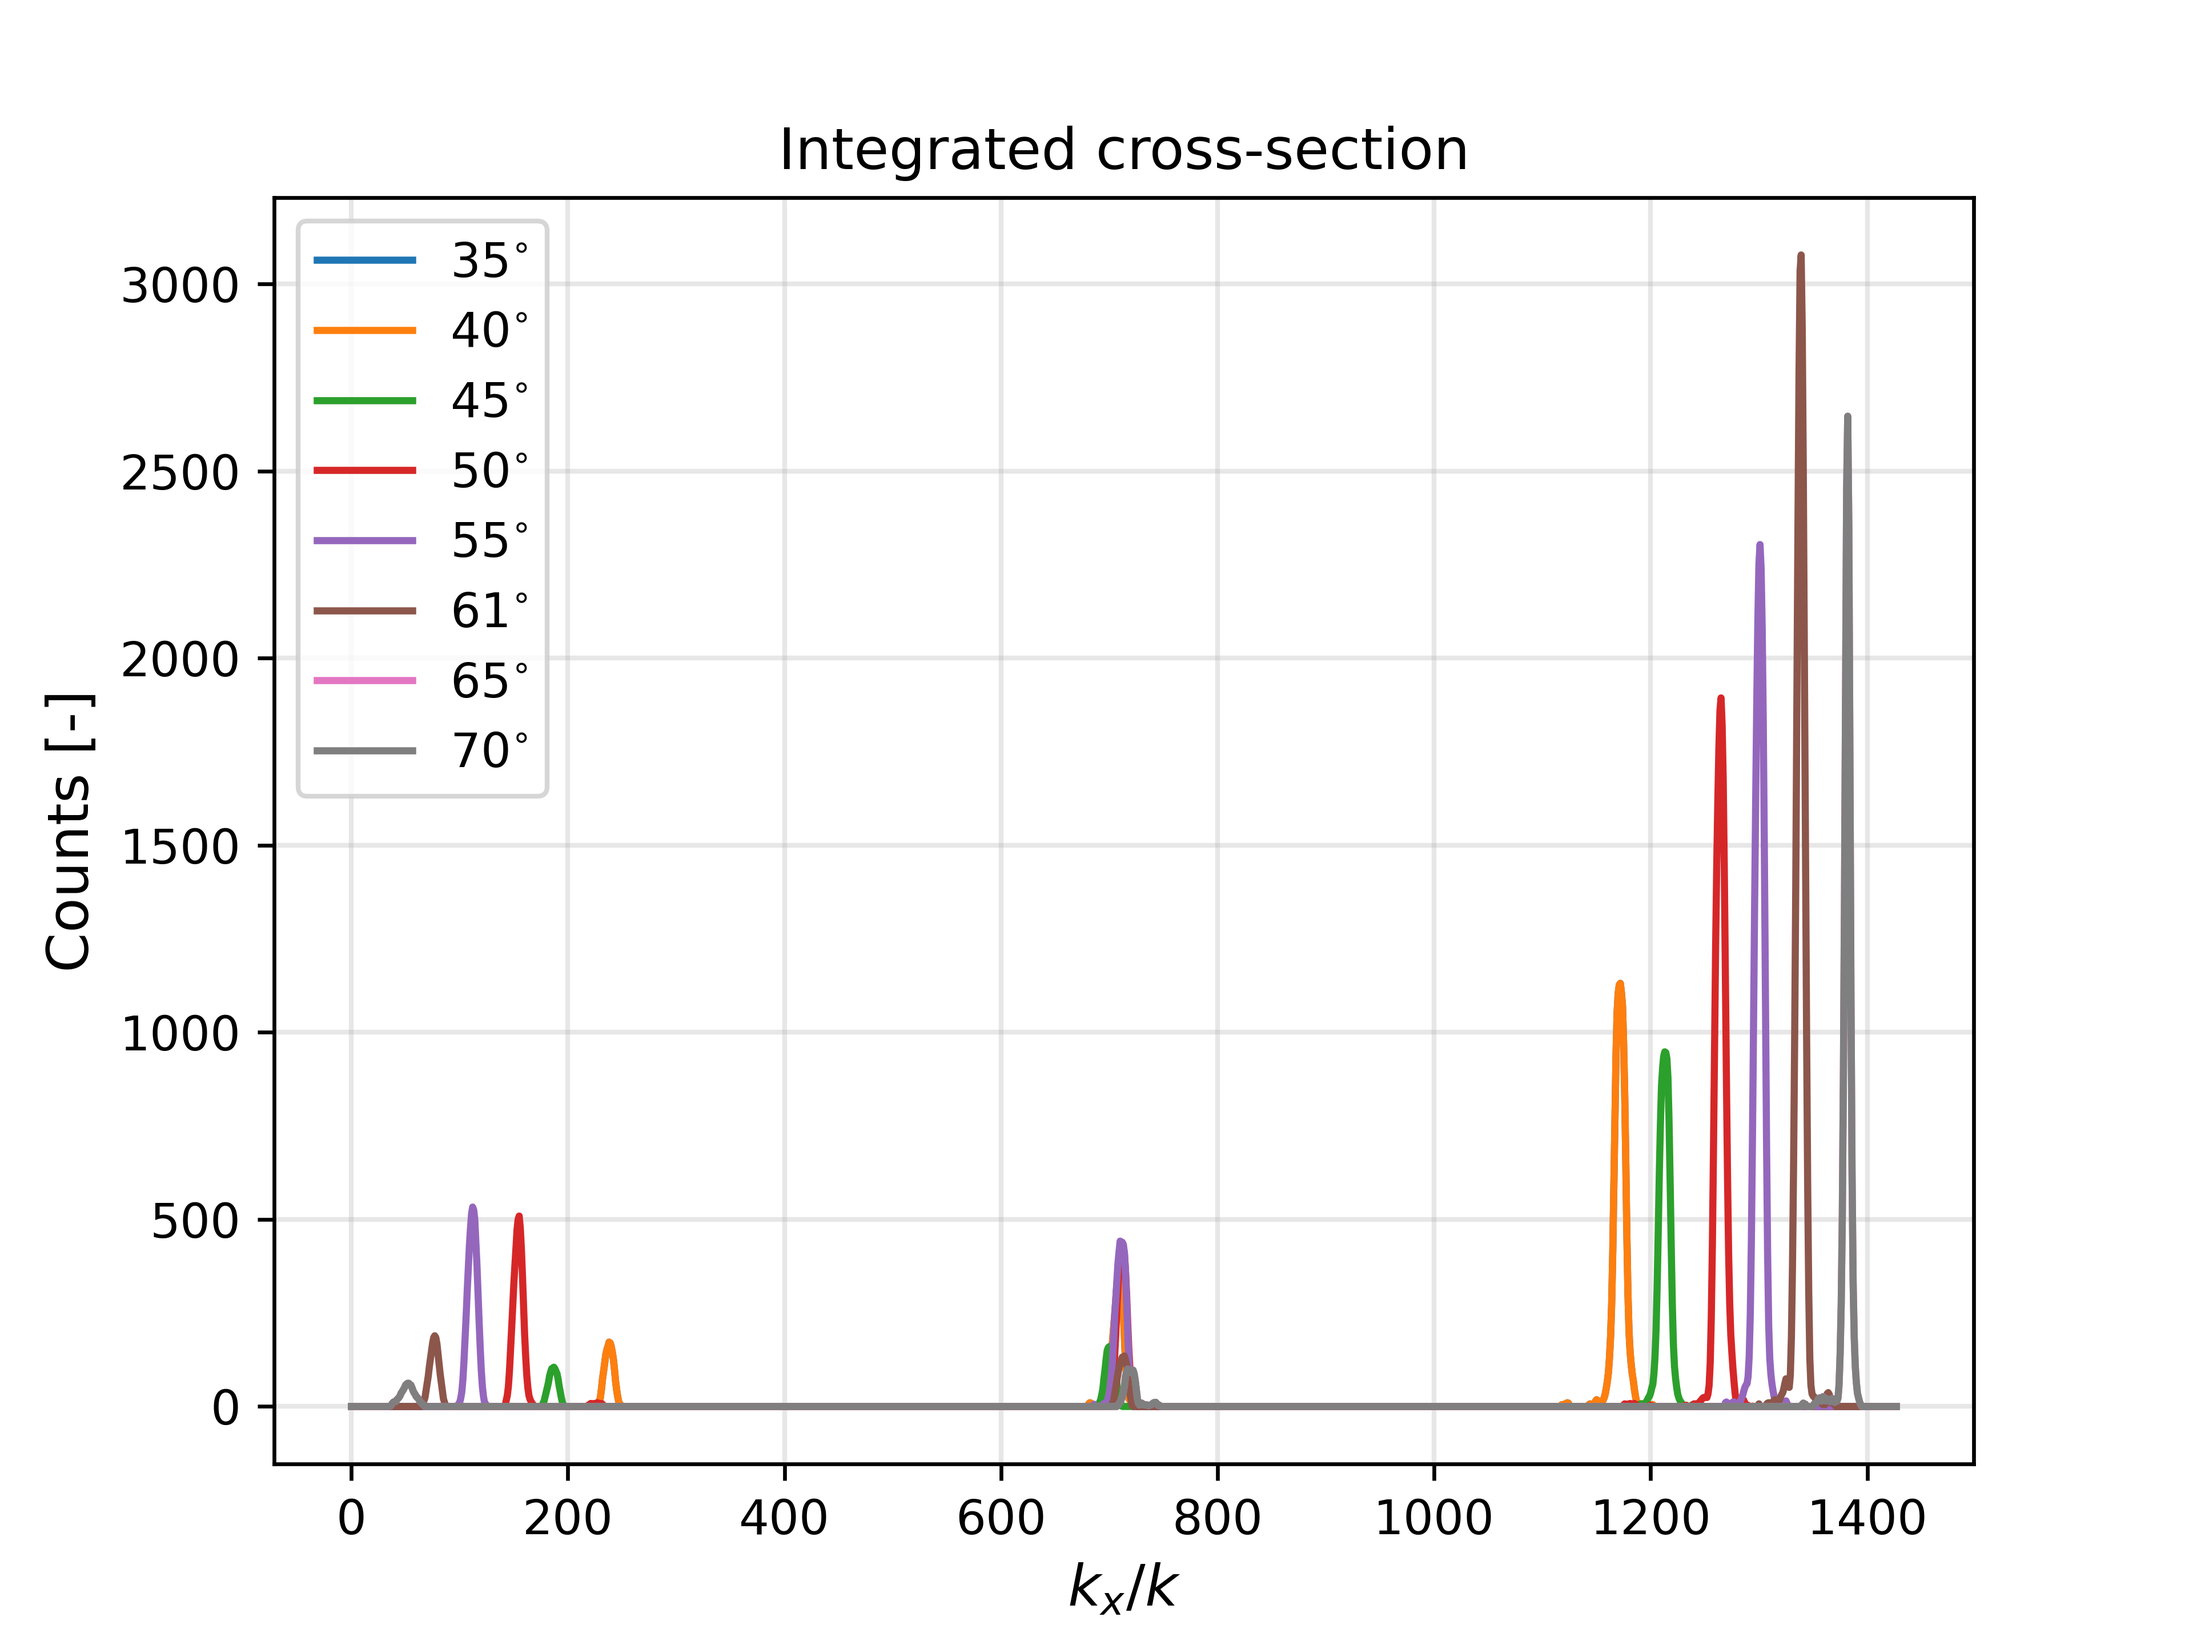
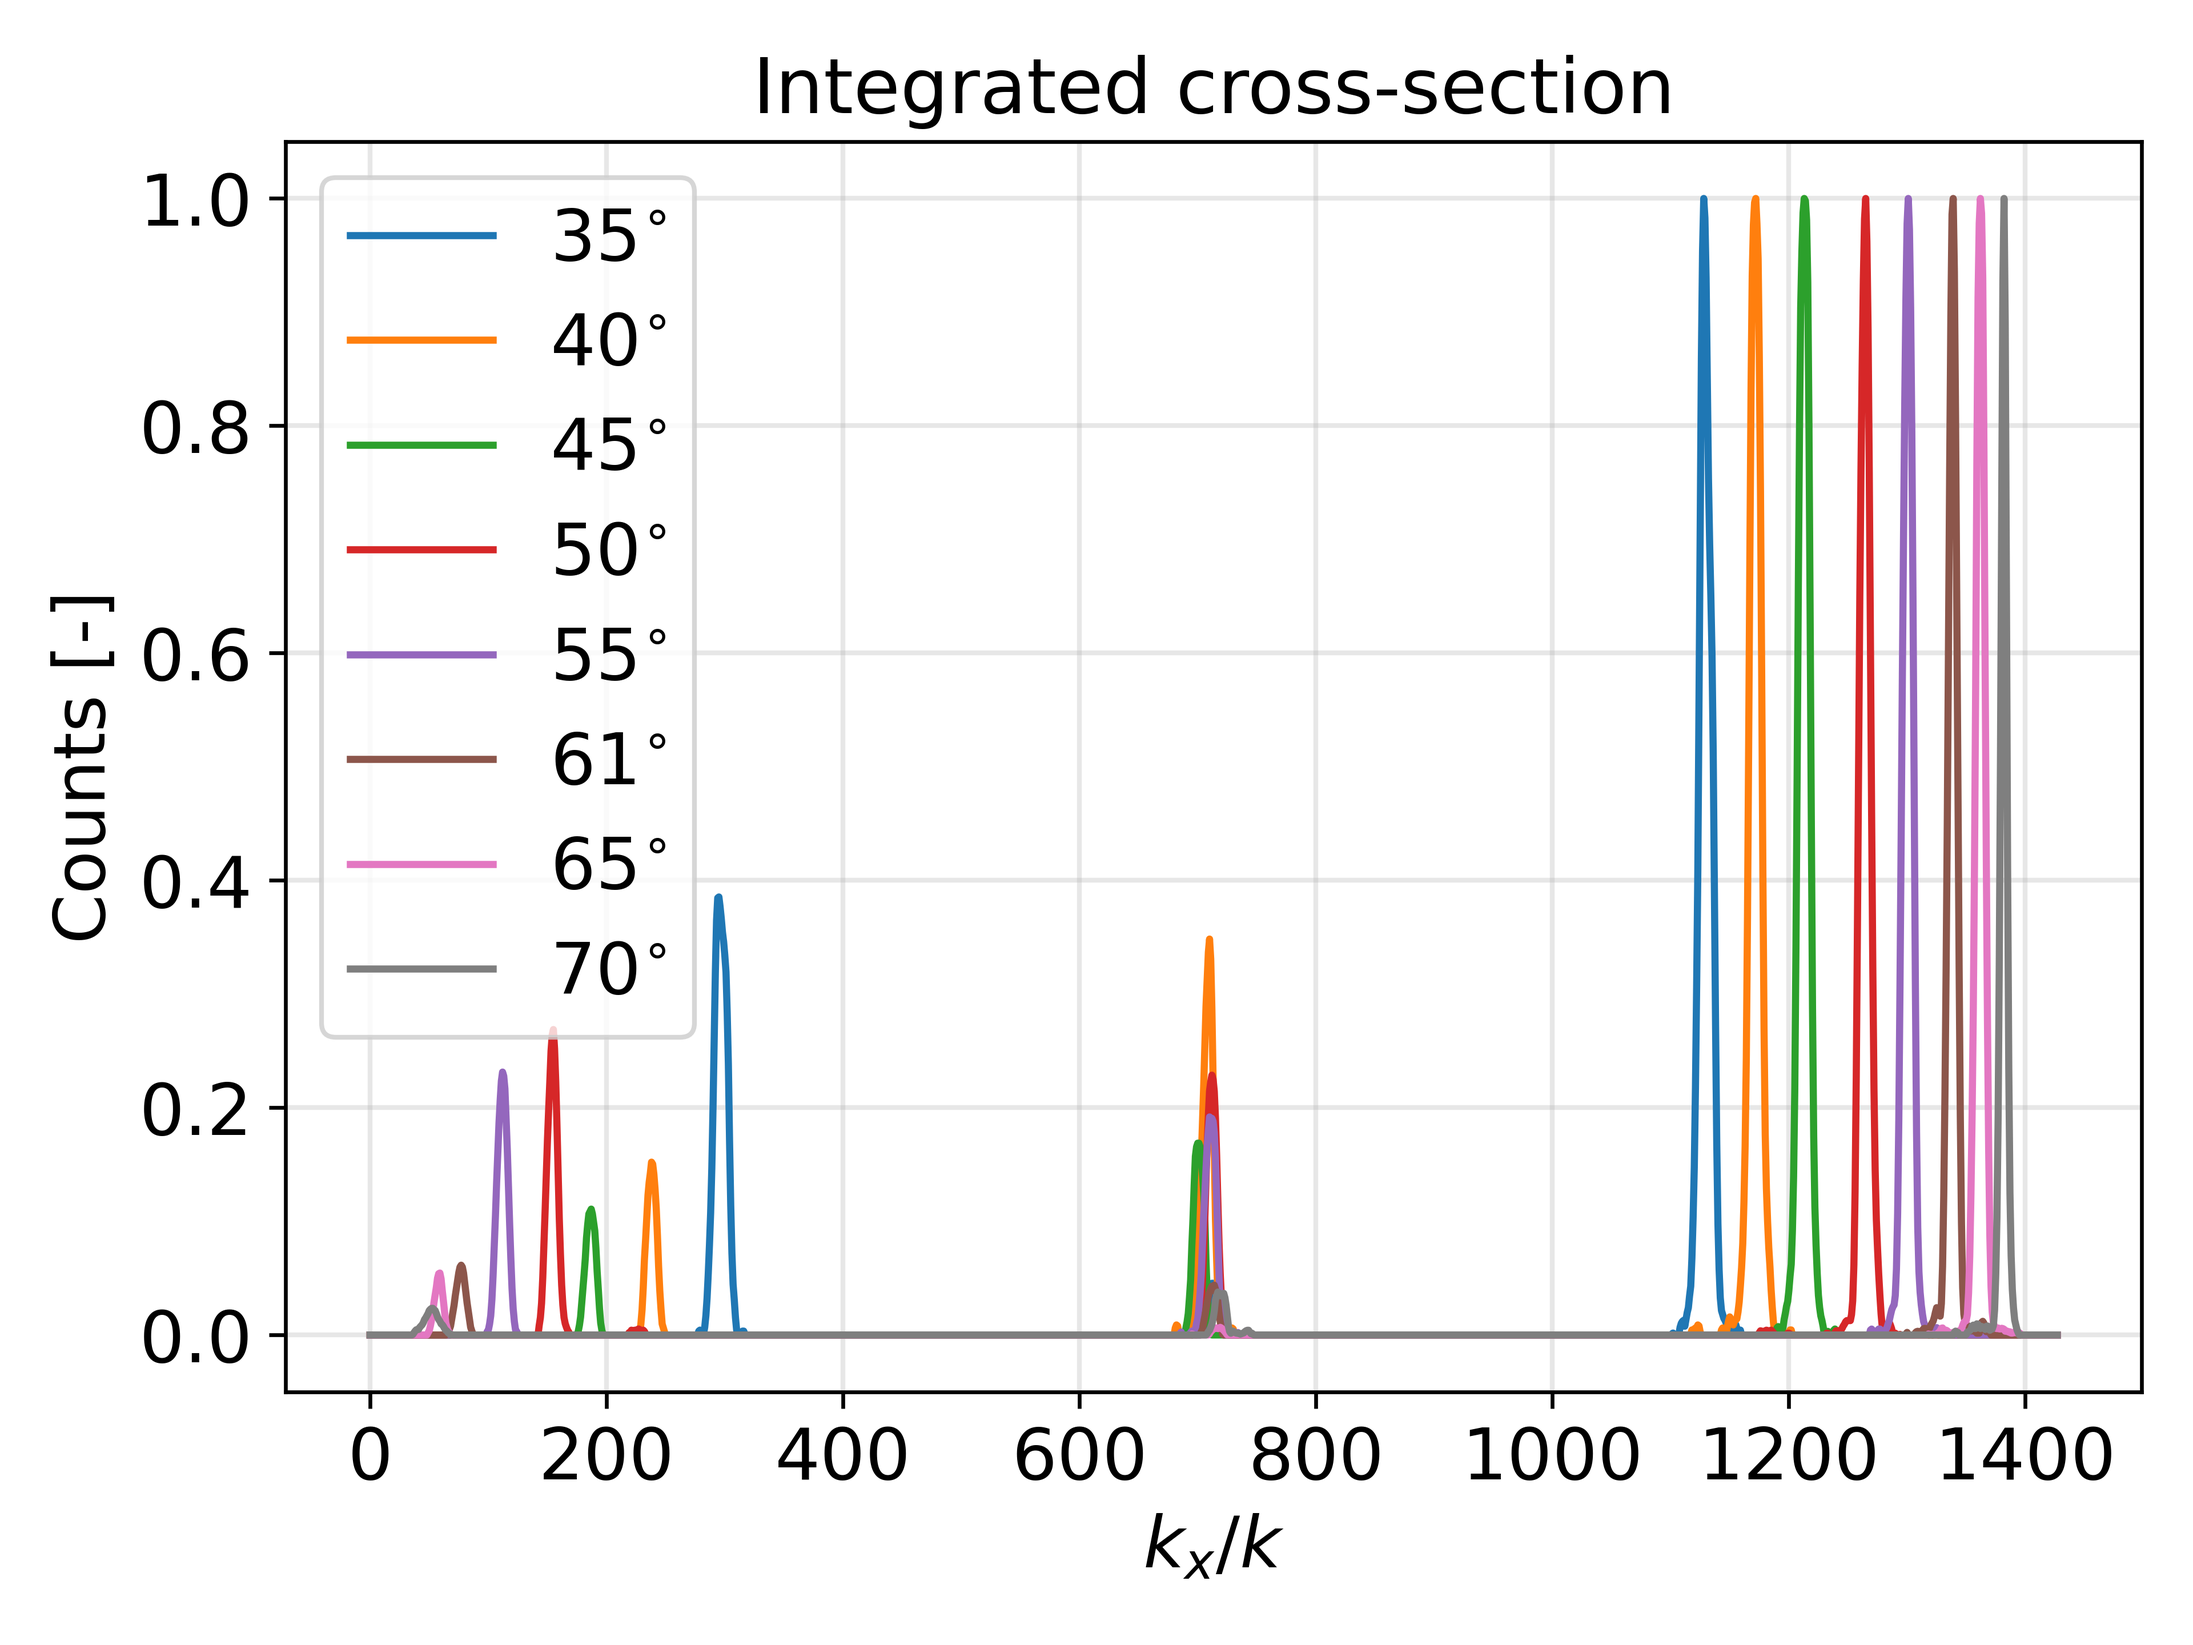
flip

Changed region(s): [[0.0, 0.0312, 0.9688, 1.0], [0.0625, 0.7188, 0.125, 0.75], [0.375, 0.7812, 0.4062, 0.8125]]

diff --git a/deflecting_lens_spherical.py b/deflecting_lens_spherical.py
@@ -56,8 +56,11 @@ NM = 1e-9
 #     return 2*PI - (2*PI*n/lam0)*np.sqrt(X**2 + f**2 - f) + 2*PI*n/lam0*(X*np.sin(anglex) + Y*np.sin(angley))
 # ### Get deflecting cylindrical lens gradient phase map
 
-def deflecting_cylindrical_lens_gradient_map(X, Y, n, lam0, anglex, angley, f):
+#def deflecting_cylindrical_lens_gradient_map(X, Y, n, lam0, anglex, angley, f):
     return 2*PI - (2*PI*n/lam0)*(np.sqrt(X**2 + f**2) - f) + 2*PI*n/lam0*(X*np.sin(anglex) + Y*np.sin(angley))
+
+def deflecting_spherical_lens_gradient_map(X, Y, n, lam0, anglex, angley, f):
+    return 2*PI - (2*PI*n/lam0)*(np.sqrt(X**2 + Y**2 + f**2) - f) + 2*PI*n/lam0*(X*np.sin(anglex) + Y*np.sin(angley))
 
 def plot_focused_beam(E_incident, n, NA_objective, ax, ay, Nx, Ny, X, Y, anglex, angley, f):
     
@@ -76,7 +79,7 @@ def plot_focused_beam(E_incident, n, NA_objective, ax, ay, Nx, Ny, X, Y, anglex,
     kx_beam = NA_beam*np.cos(theta)
     ky_beam = NA_beam*np.sin(theta)
     
-    T_deflecting_lens = np.exp(1j*deflecting_cylindrical_lens_gradient_map(X, Y, n, lam0, anglex, angley, f))
+    T_deflecting_lens = np.exp(1j*deflecting_spherical_lens_gradient_map(X, Y, n, lam0, anglex, angley, f))
     
     E_k = fft2c(E_incident*T_deflecting_lens)
     I_k = np.abs(E_k)**2

diff --git a/gds/cylindrical_lens.py b/gds/cylindrical_lens.py
@@ -81,8 +81,8 @@ comsol_g3    = np.array(comsol_dataframe['g3'])
 comsol_g4    = np.array(comsol_dataframe['g4'])
 
 ### Set size of meta surface 
-# L   = 500*UM
-L = 40*UM
+L   = 500*UM
+#L = 40*UM
 
 ### Pd does not really matter since it will be reshaped!
 Pd  = 50*NM
@@ -104,8 +104,8 @@ R    = np.sqrt(X**2 + Y**2)
 ### Parameters for generated lens
 n = 1
 lam0 = 984*NM
-# anglex = -60*DEG_TO_RAD
-anglex = 0
+anglex = -70*DEG_TO_RAD
+#anglex = 0
 angley = 0
 f      = 800*UM
 
@@ -135,7 +135,6 @@ if plot_phase_map:
     plt.plot(cs_phase_map)
     print('Needed angles: ' + str(x_angle_design_unique))
     
-    #%%
 
 ### Find the Fresnel regions 
 fresnel_regions = {}
@@ -213,7 +212,7 @@ R_reshaped             = np.sqrt(X_reshaped**2 + Y_reshaped**2)
 
 ### ------------------------ Start creating mask ------------------------ ###
 save_folder_path = create_save_folder()
-ms_name = 'cylindrical_lens_60'
+ms_name = 'cylindrical_lens_70'
 
 layer_dict = {'ms'     : {'layer': 1, 'datatype' : 0},
               'labels' : {'layer': 2, 'datatype' : 1}}

diff --git a/plot_GaAs3_3_right.py b/plot_GaAs3_3_right.py
@@ -217,7 +217,7 @@ class MEL_9000_k_images():
         
         plt.tight_layout(pad=outer_pad, w_pad=width_pad, h_pad=height_pad)
         
-        return x_cs_integrated
+        return x_cs_integrated/max(x_cs_integrated)
         
 
     def plot_3_areas(self, x_pos, y_pos_mid, y_pos_top, y_pos_bottom, integrate_over):
@@ -650,8 +650,11 @@ plt.plot(sodeg, label = r'$61^{\circ}$')
 plt.plot(sfdeg, label = r'$65^{\circ}$')
 plt.plot(sezdeg, label = r'$70^{\circ}$')
 plt.grid(linewidth=1, alpha=0.3)
-plt.xlabel(r'$k_x/k$', fontsize=12)
-plt.ylabel(r'Counts [-]', fontsize=12)
-plt.legend() 
-plt.title(r'Integrated cross-section', fontsize=12)
+plt.xlabel(r'$k_x/k$', fontsize=15)
+plt.ylabel(r'Counts [-]', fontsize=15)
+plt.legend(fontsize=15) 
+plt.title(r'Integrated cross-section', fontsize=16)
+plt.yticks(fontsize = 15)
+plt.xticks(fontsize = 15)
+plt.tight_layout()
 plt.savefig(mypath/'GaAs3_3_crossection_35-70deg.png', dpi=600, format='png')

diff --git a/gds/spherical_lens.py b/gds/spherical_lens.py
@@ -85,7 +85,7 @@ comsol_g4    = np.array(comsol_dataframe['g4'])
 # L_real = 100*UM
 
 L   = 2000*UM
-L_real = 150*UM
+L_real = 250*UM #radie
 
 
 ### Pd does not really matter since it will be reshaped!
@@ -108,7 +108,7 @@ R    = np.sqrt(X**2 + Y**2)
 ### Parameters for generated lens
 n        = 1
 lam0     = 984*NM
-anglex   = -40*DEG_TO_RAD
+anglex   = -60*DEG_TO_RAD
 angley   = 0*DEG_TO_RAD
 f        = 600*UM
 r_offset = -f*np.tan(np.abs(anglex))
@@ -225,7 +225,7 @@ def create_cut_comp(angle, r, g1, g2, g3, g4, radius, width, pnd, radius_ms, lay
 
 ### ------------------------ Start creating mask ------------------------ ###
 save_folder_path = create_save_folder()
-ms_name = 'spherical_lens'
+ms_name = 'spherical_lens_60'
 
 layer_dict = {'ms'     : {'layer': 1, 'datatype' : 0},
               'labels' : {'layer': 2, 'datatype' : 1}}
